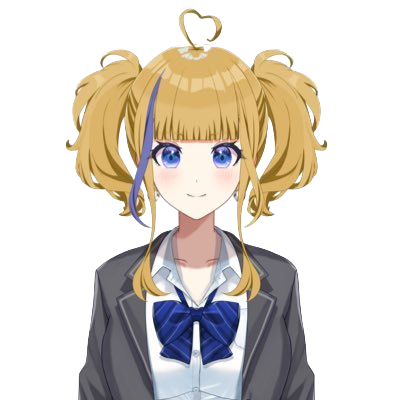
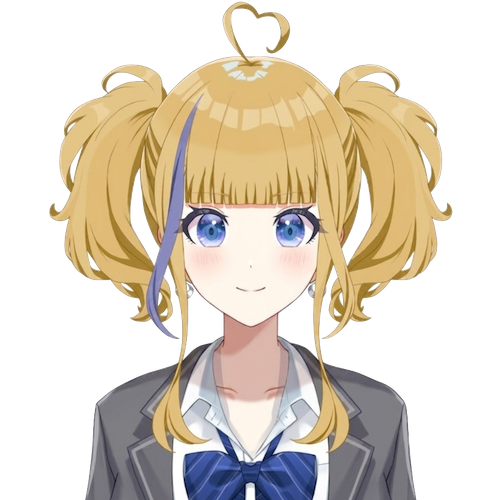
deploy: タレント情報・問題追加 (q290) とLive2D画像差し替え v202604220000

diff --git a/public/sw.js b/public/sw.js
@@ -1,5 +1,5 @@
 // キャッシュの名前（バージョン管理用）
-const CACHE_NAME = 'v202604212219';
+const CACHE_NAME = 'v202604220000';
 
 // 1. インストール時の処理
 self.addEventListener('install', (event) => {
